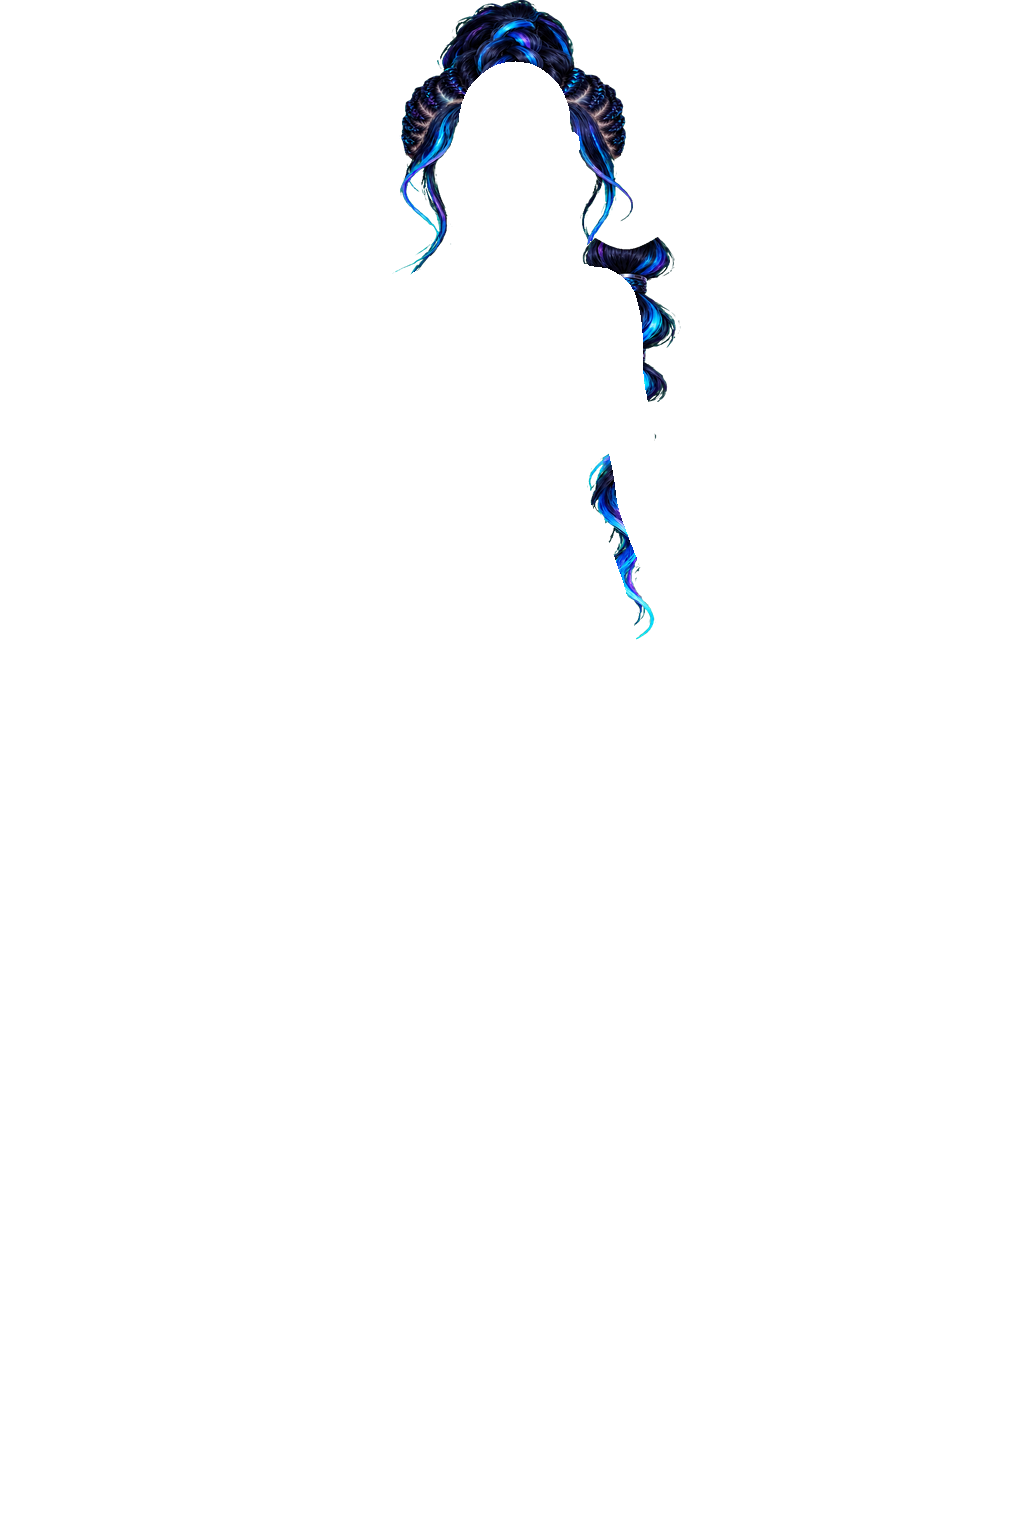
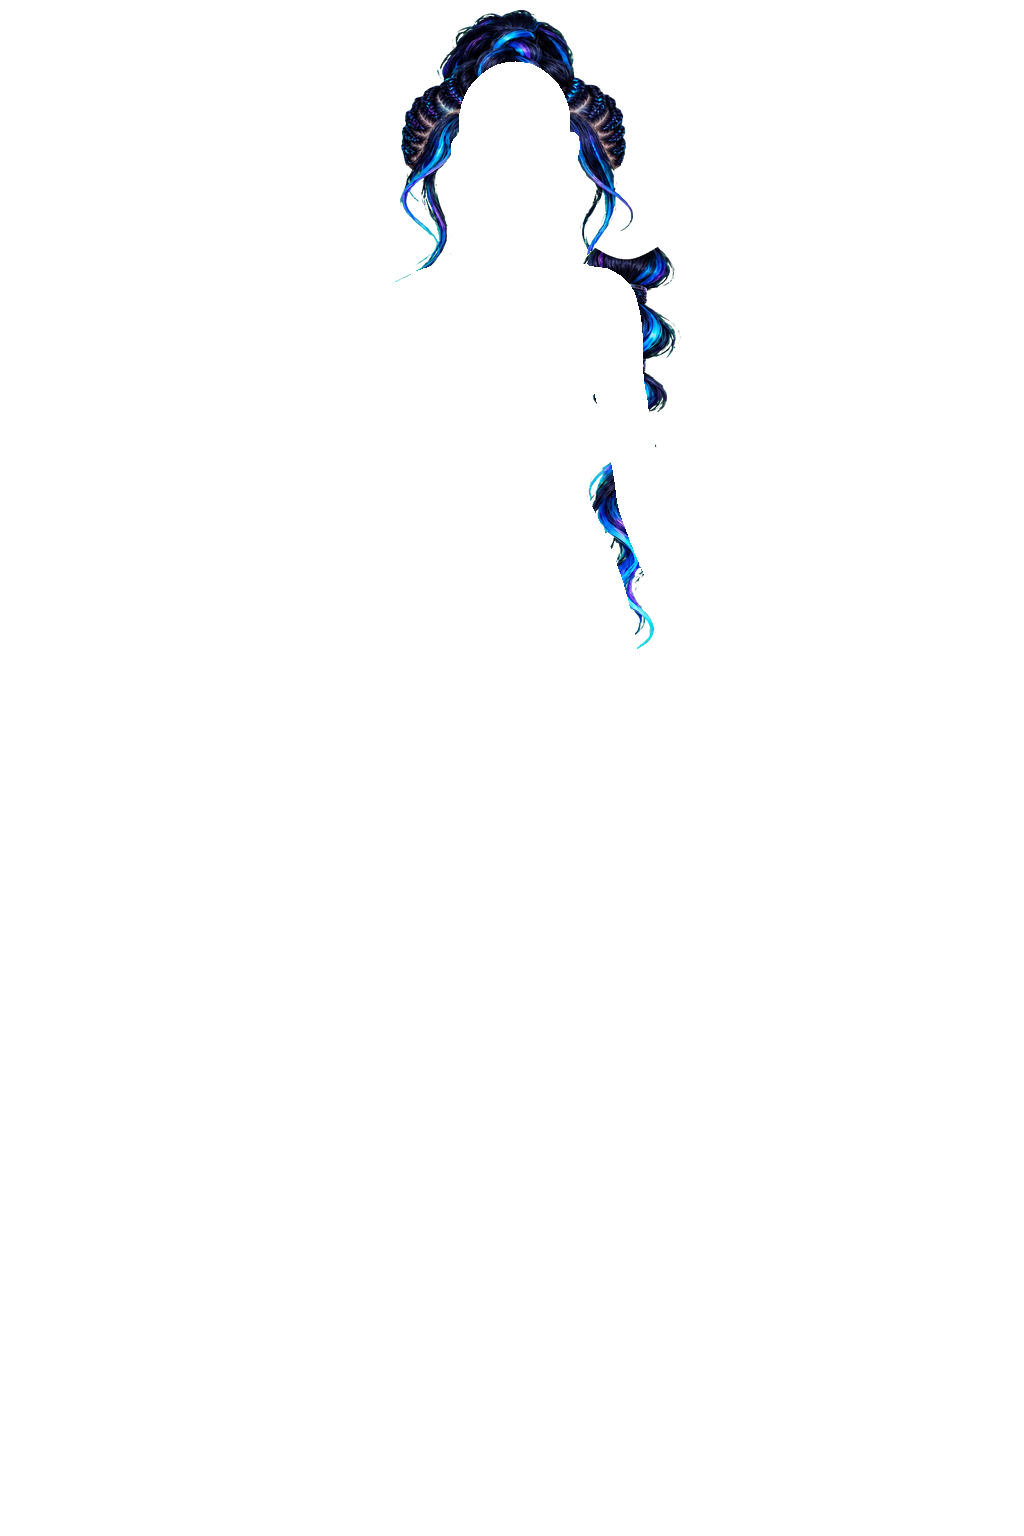
Glow Girls: seat three hairstyles on the new heads; erase the foot only under the shoe outline
Checked every style through the game's own compositor: Jia's electric bob,
Hana's floral halo and Jia's circuit fauxhawk sat too high on the painted
heads, leaving skull bare at the forehead and temple. Each was moved down
(20, 20 and 10 px) after rendering candidate offsets and choosing by eye;
the other twelve are within Sol's coverage band and untouched.

The compositor no longer blanks the mannequin's whole foot below the ankle
line whenever a shoe is worn: it erases only under the shoe's front outline
(dilated 2 px). Now that garments carry no skin, open shoes show the foot in
the girl's tone instead of a hole.

Tools: hair-coverage, hair-seat and the game-composite shot script kept in
tools/glowgirl-art with the values used.

Changed region(s): [[0.375, 0.0, 0.6562, 0.2812], [0.5625, 0.2812, 0.6562, 0.4062]]

diff --git a/public/fireworks/index.html b/public/fireworks/index.html
@@ -1184,12 +1184,13 @@ function ggComposite(i,look,blink,scale){
     if(lay==='MASTER'){ggDraw(x,base);continue}
     if(lay==='BLINK'){if(blinkRec)ggDraw(x,blinkRec);continue}
     if(lay.erase){
-      /* The master's bare feet are erased wherever the FRONT boot layer covers them (the
-         rear layer is the shaft interior the leg must stay visible against), dilated 1px
-         so no seam opens, and everything below the ankle line always sits inside a boot. */
+      /* The mannequin's bare feet are erased only where the FRONT shoe layer covers them,
+         dilated 2px so no seam opens at the rim (the rear layer is a boot's shaft interior,
+         which the leg must stay visible against). Since garments carry no skin, an open
+         shoe shows the mannequin's own foot through its straps, repainted to the girl's tone. */
       if(eraseRec){x.save();x.globalCompositeOperation='destination-out';
-        for(let dx=-1;dx<=1;dx++)for(let dy=-1;dy<=1;dy++)x.drawImage(eraseRec.src,eraseRec.sx,eraseRec.sy,eraseRec.w,eraseRec.h,eraseRec.dx+dx,eraseRec.dy+dy,eraseRec.w,eraseRec.h);
-        x.fillStyle='#000';x.fillRect(0,1240,GG_W,GG_H-1240);x.restore()}
+        for(let dx=-2;dx<=2;dx++)for(let dy=-2;dy<=2;dy++)x.drawImage(eraseRec.src,eraseRec.sx,eraseRec.sy,eraseRec.w,eraseRec.h,eraseRec.dx+dx,eraseRec.dy+dy,eraseRec.w,eraseRec.h);
+        x.restore()}
       continue}
     ggDraw(x,lay);
   }

diff --git a/public/fireworks/HEADS-HAIR-WARDROBE-TASK.md b/public/fireworks/HEADS-HAIR-WARDROBE-TASK.md
@@ -5,7 +5,7 @@ Updated 2026-09-06. Most of what this document originally set out as Photoshop w
 ## 1. The document and its landmarks
 
 - Canvas 1024 x 1536, transparent. Every exported layer is this full size, never cropped, never moved. Registration is the whole contract.
-- References: `master.png` (the mannequin: Sol's body, bare torso from neck to hip, black unitard from the hips down, feet on the standing line), `final/head-base-mask.png` (the part of Sol's head erased for the other girls), `final/head-hana-front.png`, `final/head-jia-front.png`.
+- References: `master.png` (the mannequin: Sol's body wearing a black bralet and the unitard shorts, skin elsewhere from the neck to the hips, feet on the standing line; rebuilt by `tools/glowgirl-art/master-build.cjs`), `final/head-base-mask.png` (the part of Sol's head erased for the other girls), `final/head-hana-front.png`, `final/head-jia-front.png`.
 - Landmarks (registered pixels):
 
 | Landmark | Value |
@@ -34,12 +34,19 @@ The gap between a short top and a low waistband used to show the unitard as a bl
 
 - `shoes-orbitpoints`: the trouser flares of `bottom-orbitflares` were baked into the boot layer. Cut by geometry (boots in x 359-442 and 592-652 below y 1247, flare fabric and the panel corners removed) so the boots mix with any bottom. Done.
 - Soles on the standing line: `bloomjanes` (+31), `cherryboots` (+46), `orbitpoints` (+26), `prismhightops` (+13), `sunburstboots` (+13) moved up so the sole is at y 1408. Done.
-- Rule for new boots: sole at 1408; the shaft interior above the front rim goes in the rear file; keep the front layer's alpha tight at the rim (it is dilated one pixel at runtime to erase the mannequin's foot).
+- Rule for new boots: sole at 1408; the shaft interior above the front rim goes in the rear file; keep the front layer's alpha tight at the rim. The mannequin's foot is erased only under the shoe's own front outline (dilated 2 px), no longer everything below the ankle line, so open shoes show the foot in the girl's tone.
 
 ## 5. Hair
 
-- `hair-jia-circuitfauxhawk`: the crest had been split into the rear layer, so the painted head covered it and Jia looked bald under it. Re-split from the merged art with `tools/split-front-rear.cjs` (over the body silhouette = front). Done.
-- Every other Hana and Jia style sits correctly on the new heads (checked on contact sheets). Four rear layers touch the canvas top by a few pixels (`hana-floralhalo`, `hana-petalpixie`, `jia-circuitfauxhawk`, `jia-electricbob`), a flat crown that is invisible at game size; moving them would put the fringe on the forehead, so they stay.
+Checked through the game's own compositor (the offline sheet renderer can flatter a style at the head, which is how the first pass missed these). Three Hana/Jia styles were seated too high, leaving painted skull bare at the forehead and temple:
+
+| Style | Fix |
+|---|---|
+| `hair-jia-electricbob` | moved +4 x, +20 y |
+| `hair-hana-floralhalo` | moved +20 y |
+| `hair-jia-circuitfauxhawk` | crest re-split into the front layer, then moved +10 y |
+
+Method: `tools/glowgirl-art/hair-coverage.cjs` flags a style whose skull/temple cover falls below Sol's five; `hair-seat.cjs` shifts the merged hair; candidates at several offsets are rendered with the game compositor and chosen by eye (20 px too far and the skull shows above the hair); split, rebuild the manifest. The other twelve styles were within Sol's band and were left alone; the braid-matrix buns are large by design.
 
 ## 6. Outlines
 
@@ -49,7 +56,7 @@ The gap between a short top and a low waistband used to show the unitard as a bl
 
 - **Blink layers for Hana and Jia.** The blink painting is Sol's eyes, so the other two do not blink. One layer per head in the eye region (x 464-573, y 115-171), registered to that head.
 - `face-moondrops-front.png` is empty while its rear is not; probably an export slip. The earrings still show because they fall outside the head silhouette.
-- The mannequin's bare chest is a union of the tops' own skin renderings and only looks right under a top. If a future top exposes chest that no current top exposes, that patch of the mannequin will need painting.
+- The mannequin's bralet is the original unitard restored wherever every closed top covers the bust, so no closed top can reveal it; the three open-front designs (petal jacket, moon moto, solar vest) show it as an undergarment by design. The chest skin around it is a union of the tops' own skin renderings and only looks right under a top. A future top that exposes bust or chest no current top exposes will show the bralet edge or need that patch painted; check it with the game composite before shipping.
 
 ## 8. Export and check
 

diff --git a/tools/glowgirl-art/README.md b/tools/glowgirl-art/README.md
@@ -9,3 +9,9 @@ Offline helpers for the registered-puppet layers in `public/fireworks/assets/glo
 - `../split-front-rear.cjs`, `../strip-dark-rim.cjs`, `../build-glowgirl-layers.cjs` — split a merged layer, peel a black outline, rebuild/check `layers.json`.
 
 The untouched originals of every file the batch changed are in the session scratch folder `scratchpad/artcheck/originals/`; the previous committed versions are also in git history (commit before "Glow Girls art: …").
+
+## Hair seating (added 2026-09-06, second pass)
+
+- `hair-coverage.cjs` — for every hairstyle, how much of the painted skull above the brow and of the temples the front layer hides, plus crown and fringe rows. Sol's five styles are the reference band; a style far below it is mis-seated.
+- `hair-seat.cjs <girl> <style> [dx dy scale]` — shifts/scales the merged hair about the brow line and writes `<style>.seated.png` next to the script; with no fixed values it searches, but the score over-rewards sinking the hair, so always render candidates and choose by eye. Seated values used: `jia-electricbob` +4,+20; `hana-floralhalo` 0,+20; `jia-circuitfauxhawk` 0,+10. Then split with `../split-front-rear.cjs` and rebuild the manifest.
+- `game-composite-shot.mjs <girlIndex> <style> <out.png>` — the game's own composite of a look (the truth; the offline sheet renderer can differ at the head), via the headless harness in the session scratch folder (`kb/cdp.mjs`, `kb/serve.mjs`); copy it next to those to run.
